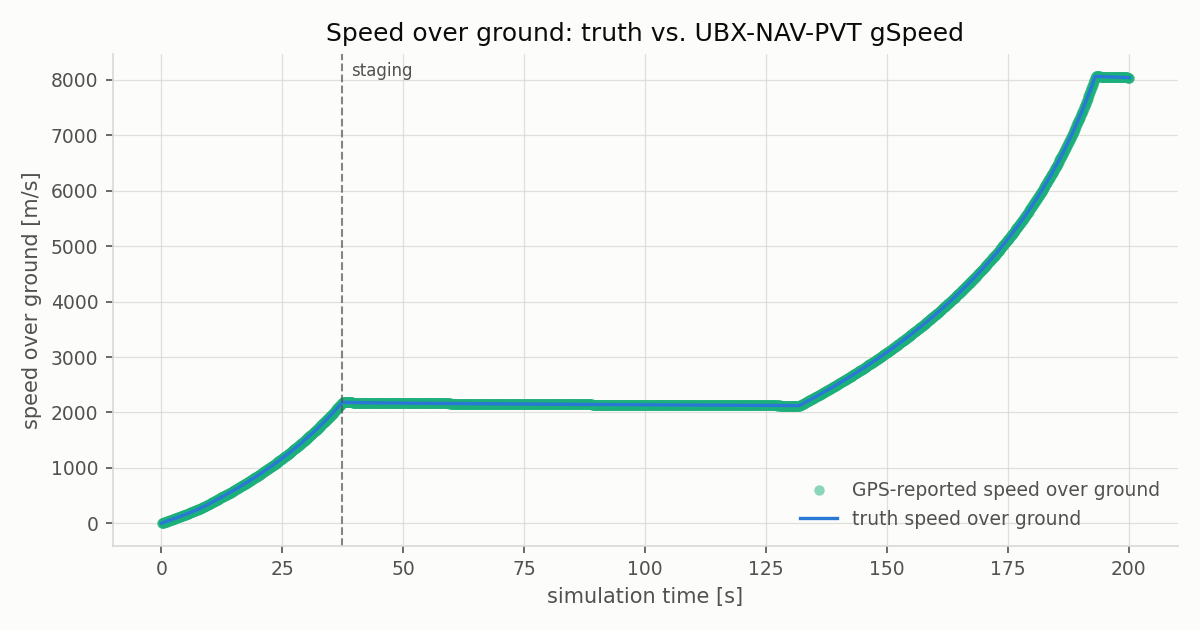
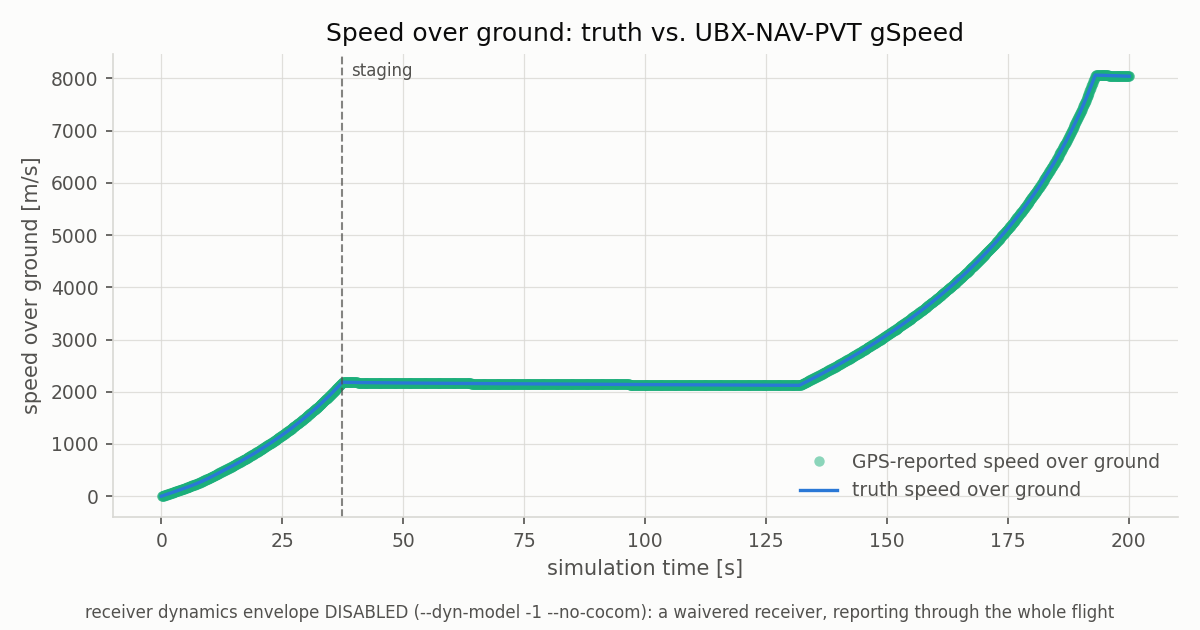
examples/rocket_gps_ecos: make every figure say which run produced it
Three of the six figures can only be drawn from the envelope-unlocked run,
because the default configuration leaves one usable fix in 2001 epochs. Those
three show GPS decoded across the whole flight -- which, detached from the RST
caption that said "envelope-unlocked run", reads as a flat contradiction of the
COCOM result the page spends a section establishing. A reader hit exactly that.

The caption was the wrong place for it. rocket_gps_cosim now writes a .config
sidecar next to the truth log recording what it configured -- platform model,
COCOM switch, ignition time, launch site, step and stop -- and plot_results.py
stamps a one-line summary at the foot of every figure it draws:

    receiver dynamics envelope: u-blox dynModel 8, COCOM limits in force
    receiver dynamics envelope DISABLED (--dyn-model -1 --no-cocom): a
      waivered receiver, reporting through the whole flight

A PNG that escapes its caption now still carries its own provenance, and a run
whose sidecar is missing says so rather than going unlabelled.

Figures and transcripts regenerated from both paced runs; the trajectory still
verifies inside the NASA check-case envelope at all 2001 samples.

diff --git a/examples/rocket_gps_ecos/plot_results.py b/examples/rocket_gps_ecos/plot_results.py
@@ -178,6 +178,48 @@ def legend(ax) -> None:
         text.set_color(INK_2)
 
 
+def read_run_config(truth_path: Path) -> dict[str, str]:
+    """Reads the `<truth stem>.config` sidecar rocket_gps_cosim writes, if present."""
+    path = truth_path.with_suffix(".config")
+    if not path.exists():
+        return {}
+    config: dict[str, str] = {}
+    for line in path.read_text().splitlines():
+        key, _, value = line.partition("=")
+        if key and value:
+            config[key.strip()] = value.strip()
+    return config
+
+
+def config_caption(config: dict[str, str]) -> str:
+    """One line describing the receiver configuration a run used.
+
+    Every figure carries this. Without it the envelope-unlocked comparison run
+    -- which reports a fix at every epoch -- looks like a contradiction of the
+    COCOM result the default configuration produces, and there is nothing in
+    the image to tell the two apart.
+    """
+    if not config:
+        return "run configuration unknown (no .config sidecar beside the truth log)"
+
+    platform = config.get("dynamic_platform", "?")
+    cocom = config.get("cocom_limits_enabled", "?") == "1"
+    if platform == "-1" and not cocom:
+        return ("receiver dynamics envelope DISABLED (--dyn-model -1 --no-cocom): "
+                "a waivered receiver, reporting through the whole flight")
+    limits = []
+    if platform != "-1":
+        limits.append(f"u-blox dynModel {platform}")
+    limits.append("COCOM limits in force" if cocom else "COCOM limits cleared")
+    return "receiver dynamics envelope: " + ", ".join(limits)
+
+
+def stamp(fig, caption: str) -> None:
+    """Puts the run's provenance at the foot of a figure, out of the data's way."""
+    fig.tight_layout(rect=(0.0, 0.045, 1.0, 1.0))
+    fig.text(0.5, 0.012, caption, ha="center", va="bottom", fontsize=8, color=INK_2)
+
+
 def rolling_rms(values: list[float], window: int = 101) -> list[float]:
     """Centred rolling RMS, for reading a noise level off a cloud of samples."""
     out: list[float] = []
@@ -201,7 +243,7 @@ def annotate_event(ax, x: float, label: str) -> None:
                 ha="left", va="top", fontsize=8, color=INK_2)
 
 
-def plot_altitude(truth, fixes, outages, out: Path) -> None:
+def plot_altitude(truth, fixes, outages, out: Path, caption: str) -> None:
     fig, ax = new_figure()
     shade_outages(ax, outages)
     # GPS dots first, truth line on top -- the two overlap almost everywhere,
@@ -230,12 +272,12 @@ def plot_altitude(truth, fixes, outages, out: Path) -> None:
     ax.set_ylabel("altitude above MSL [km]")
     ax.set_title("Two-stage rocket ascent: truth vs. decoded GPS altitude")
     legend(ax)
-    fig.tight_layout()
+    stamp(fig, caption)
     fig.savefig(out / "altitude_vs_time.png", facecolor=SURFACE)
     plt.close(fig)
 
 
-def plot_velocity(truth, fixes, outages, out: Path) -> None:
+def plot_velocity(truth, fixes, outages, out: Path, caption: str) -> None:
     fig, ax = new_figure()
     shade_outages(ax, outages)
     speed = [math.hypot(n, e) for n, e in zip(truth["v_north_m_s"], truth["v_east_m_s"])]
@@ -251,12 +293,12 @@ def plot_velocity(truth, fixes, outages, out: Path) -> None:
     ax.set_ylabel("speed over ground [m/s]")
     ax.set_title("Speed over ground: truth vs. UBX-NAV-PVT gSpeed")
     legend(ax)
-    fig.tight_layout()
+    stamp(fig, caption)
     fig.savefig(out / "velocity_vs_time.png", facecolor=SURFACE)
     plt.close(fig)
 
 
-def plot_gps_availability(truth, outages, out: Path) -> None:
+def plot_gps_availability(truth, outages, out: Path, caption: str) -> None:
     """Shows the truth state against the limits that took the fix away.
 
     Two panels sharing a time axis, because the COCOM cut-off is an AND of
@@ -311,12 +353,12 @@ def plot_gps_availability(truth, outages, out: Path) -> None:
                         xytext=(46, 14), textcoords="offset points", fontsize=8, color=INK_2,
                         arrowprops=dict(arrowstyle="->", color=INK_2, linewidth=0.9))
 
-    fig.tight_layout()
+    stamp(fig, caption)
     fig.savefig(out / "gps_availability.png", facecolor=SURFACE)
     plt.close(fig)
 
 
-def plot_gps_error(truth, fixes, step: float, out: Path) -> None:
+def plot_gps_error(truth, fixes, step: float, out: Path, caption: str) -> None:
     # Truth rows and fixes share the 10 Hz grid (one NAV-PVT per step), so
     # align by rounded time rather than interpolating. The fix emitted at the
     # end of step k carries the truth sampled at the end of step k-1 -- the
@@ -374,12 +416,12 @@ def plot_gps_error(truth, fixes, step: float, out: Path) -> None:
         legend(ax)
     ax_h.set_title("GPS error injected by GpsNoiseModel, recovered end-to-end")
     ax_v.set_xlabel("simulation time [s]")
-    fig.tight_layout()
+    stamp(fig, caption)
     fig.savefig(out / "gps_error.png", facecolor=SURFACE)
     plt.close(fig)
 
 
-def plot_imu_specific_force(truth, imu, out: Path) -> None:
+def plot_imu_specific_force(truth, imu, out: Path, caption: str) -> None:
     # The truth CSV's f_x/f_y/f_z columns are the imu:: input variables --
     # exactly the zero-order-held value the IMU FMU sampled (already one
     # communication step behind rocket truth, like every connection), so no
@@ -400,12 +442,12 @@ def plot_imu_specific_force(truth, imu, out: Path) -> None:
     ax.set_ylabel("body-X specific force [m/s²]")
     ax.set_title("Boost-phase acceleration: truth vs. decoded IMU counts")
     legend(ax)
-    fig.tight_layout()
+    stamp(fig, caption)
     fig.savefig(out / "imu_specific_force.png", facecolor=SURFACE)
     plt.close(fig)
 
 
-def plot_imu_body_rates(truth, imu, out: Path) -> None:
+def plot_imu_body_rates(truth, imu, out: Path, caption: str) -> None:
     fig, ax = new_figure()
     for axis, color, marker_alpha in (("x", TRUTH, 0.2), ("y", GPS, 0.2), ("z", INK_2, 0.2)):
         ax.plot(imu["sim_time_s"], imu[f"gyro_{axis}_rad_s"],
@@ -418,7 +460,7 @@ def plot_imu_body_rates(truth, imu, out: Path) -> None:
     ax.set_ylabel("body angular rate [rad/s]")
     ax.set_title("Body rates: truth p/q/r vs. decoded gyroscope samples")
     legend(ax)
-    fig.tight_layout()
+    stamp(fig, caption)
     fig.savefig(out / "imu_body_rates.png", facecolor=SURFACE)
     plt.close(fig)
 
@@ -434,7 +476,9 @@ def main() -> None:
     truth = read_truth(args.truth)
     fixes = read_fixes(args.fixes)
     outages = read_outages(args.fixes)
+    caption = config_caption(read_run_config(args.truth))
     args.out.mkdir(parents=True, exist_ok=True)
+    print(caption)
 
     times = truth["time"]
     step = min(b - a for a, b in zip(times, times[1:])) if len(times) > 1 else 0.1
@@ -447,16 +491,16 @@ def main() -> None:
               f"(receiver dynamics envelope: {windows}); plotting the {valid} valid ones")
 
     figures = 0
-    plot_gps_availability(truth, outages, args.out)
+    plot_gps_availability(truth, outages, args.out, caption)
     figures += 1
 
     # Two fixes is the least that says anything: one point draws no track and
     # the error figure needs a pair to align against truth. A launch-vehicle
     # envelope really can leave fewer than that, so skip rather than crash.
     if valid >= 2:
-        plot_altitude(truth, fixes, outages, args.out)
-        plot_velocity(truth, fixes, outages, args.out)
-        plot_gps_error(truth, fixes, step, args.out)
+        plot_altitude(truth, fixes, outages, args.out, caption)
+        plot_velocity(truth, fixes, outages, args.out, caption)
+        plot_gps_error(truth, fixes, step, args.out, caption)
         figures += 3
     else:
         print(f"only {valid} epoch(s) carried a fix -- skipping the three fix-dependent figures. "
@@ -464,8 +508,8 @@ def main() -> None:
 
     if args.imu.exists():
         imu = read_fixes(args.imu)  # same plain-CSV shape as the fix log
-        plot_imu_specific_force(truth, imu, args.out)
-        plot_imu_body_rates(truth, imu, args.out)
+        plot_imu_specific_force(truth, imu, args.out, caption)
+        plot_imu_body_rates(truth, imu, args.out, caption)
         figures += 2
     print(f"wrote {figures} figures to {args.out}/")
 

diff --git a/examples/rocket_gps_ecos/cosim_host_main.cpp b/examples/rocket_gps_ecos/cosim_host_main.cpp
@@ -326,6 +326,42 @@ bool parse_args(int argc, char** argv, Options& options)
   return false;
 }
 
+/// @brief Records the run's configuration next to its truth log.
+///
+/// A figure that does not say which configuration produced it will eventually
+/// be read as if it came from the other one -- and with this example the two
+/// differ on whether the GPS reports anything at all, so the misreading is
+/// guaranteed rather than merely possible. plot_results.py picks this file up
+/// and stamps the receiver settings onto every figure it draws, so a stray PNG
+/// still carries its own provenance.
+///
+/// Written as `<truth log stem>.config` beside the CSV, in trivial key=value
+/// lines: it is read by one script and by humans, and nothing here justifies a
+/// parser.
+void write_run_config(const std::filesystem::path& csv_path, const Options& options)
+{
+  std::filesystem::path config_path = csv_path;
+  config_path.replace_extension(".config");
+  std::ofstream out(config_path);
+  if (!out)
+  {
+    // Losing the provenance stamp must not lose the run.
+    std::cerr << "warning: cannot write " << config_path.string() << "; figures will be unlabelled\n";
+    return;
+  }
+  out << "dynamic_platform=" << options.dynamic_platform << "\n"
+      << "cocom_limits_enabled=" << (options.cocom_limits ? 1 : 0) << "\n"
+      << "reacquisition_time_s=" << options.reacquisition_time_s << "\n"
+      << "stg2_ignition_s=" << options.stg2_ignition_s << "\n"
+      << "lat0_deg=" << options.lat0_deg << "\n"
+      << "lon0_deg=" << options.lon0_deg << "\n"
+      << "alt0_m=" << options.alt0_m << "\n"
+      << "step_s=" << options.step_s << "\n"
+      << "stop_s=" << options.stop_s << "\n"
+      << "imu_rate_hz=" << options.imu_rate_hz << "\n"
+      << "realtime_factor=" << options.realtime_factor << "\n";
+}
+
 /// @brief Truth log, written by the host rather than by Ecos' ``csv_writer``.
 ///
 /// ``csv_writer`` formats every real with a default-configured ostringstream:
@@ -536,6 +572,7 @@ int main(int argc, char** argv)
                             "imu::f_y_mps2",
                             "imu::f_z_mps2" },
                           { "rocket::out.staged" });
+    write_run_config(options.csv_path, options);
 
     auto* altitude = sim->get_real_property("rocket::out.alt_m");
     auto* mach = sim->get_real_property("rocket::out.mach");

diff --git a/doc/rocket_gps_ecos_cosim.rst b/doc/rocket_gps_ecos_cosim.rst
@@ -375,21 +375,21 @@ from raw bytes:
    [fc] listening for UBX-NAV-PVT on UDP port 5762 (GpsDriver, protocol=UBX)
    [fc] waiting up to 120 s for the IMU on SPI bus 'hemerion_imu_spi'
    [fc] IMU identified on SPI (WHO_AM_I matched), FIFO enabled
-   [fc] fix     1  t=    0.1 s  lat=  0.0000069  lon=  -0.0000058  alt=      2.1 m  vel=    0.1 m/s  crs=149.3 deg  sats=11
+   [fc] fix     1  t=    0.1 s  lat=  0.0000125  lon=  -0.0000173  alt=     -0.9 m  vel=    0.1 m/s  crs=150.3 deg  sats=11
+   [fc] imu      1  t=    0.1 s  f=[   54.27    0.01   -0.05] m/s2  w=[ -0.0021  0.0000 -0.0021] rad/s
    [fc] fix     2  t=    0.2 s  no fix -- receiver outside its dynamics envelope
-   [fc] imu      1  t=    0.1 s  f=[   54.28    0.02    0.02] m/s2  w=[ -0.0011  0.0000  0.0000] rad/s
-   [fc] imu   3000  t=   30.1 s  f=[   97.97    0.06   -0.06] m/s2  w=[  0.0032 -0.0181  0.0000] rad/s
-   [fc] imu   4000  t=   40.1 s  f=[   -0.96    0.02   -0.15] m/s2  w=[  0.0032  0.0000  0.0043] rad/s
-   [fc] imu  10000  t=  100.1 s  f=[   -0.06    0.10    0.05] m/s2  w=[  0.0032 -0.0053  0.0032] rad/s
-   [fc] imu  14000  t=  140.1 s  f=[   56.57   -0.05    0.04] m/s2  w=[  0.0032 -0.0021  0.0000] rad/s
-   [fc] imu  19000  t=  190.1 s  f=[  217.83    0.06   -0.05] m/s2  w=[  0.0011 -0.0021  0.0032] rad/s
-   [fc] imu  20000  t=  200.1 s  f=[    0.10   -0.06    0.05] m/s2  w=[  0.0032 -0.0043  0.0011] rad/s
+   [fc] imu   3000  t=   30.1 s  f=[   97.89    0.00   -0.17] m/s2  w=[ -0.0021 -0.0202 -0.0032] rad/s
+   [fc] imu   4000  t=   40.1 s  f=[   -0.92   -0.04   -0.18] m/s2  w=[  0.0000  0.0000 -0.0032] rad/s
+   [fc] imu  10000  t=  100.1 s  f=[    0.01    0.01    0.10] m/s2  w=[  0.0000 -0.0043  0.0011] rad/s
+   [fc] imu  14000  t=  140.1 s  f=[   56.55   -0.10    0.07] m/s2  w=[  0.0032 -0.0021 -0.0021] rad/s
+   [fc] imu  19000  t=  190.1 s  f=[  217.88    0.02    0.04] m/s2  w=[  0.0000 -0.0032  0.0032] rad/s
+   [fc] imu  20000  t=  200.1 s  f=[    0.02    0.04   -0.04] m/s2  w=[  0.0021 -0.0032 -0.0043] rad/s
    [fc] IMU powered down (FMU terminated) -- co-simulation finished
    [fc] summary: 2001 NAV-PVT epochs decoded (0 checksum errors), 1 carried a fix, 2000 did not
    [fc] no-fix window: t=0.2 s to t=200.1 s (receiver dynamics envelope: platform model + COCOM limits)
-   [fc] 20000 IMU samples decoded over 12808 SPI transfers (0 checksum errors, 0 FIFO overflows, 0 failed transfers)
-   [fc] max altitude 2.086 m, max ground speed 0.073 m/s (over 1 fix carrying a solution)
-   [fc] max |specific force| 264.62 m/s2, max |body rate| 0.0566044 rad/s
+   [fc] 20000 IMU samples decoded over 12355 SPI transfers (0 checksum errors, 0 FIFO overflows, 0 failed transfers)
+   [fc] max altitude 0 m, max ground speed 0.084 m/s (over 1 fix carrying a solution)
+   [fc] max |specific force| 264.706 m/s2, max |body rate| 0.0564441 rad/s
    [fc] fixes written to results/gps_fixes.csv, IMU samples to results/imu_samples.csv
 
 Read the GPS line again: **one fix, out of 2001 navigation epochs.** The
@@ -404,7 +404,7 @@ ceiling holds it dark for the rest of the flight. Flight software that assumes
 GNSS through boost has just been shown otherwise.
 
 The IMU line is the other half: **20000 of 20010 samples decoded, zero
-checksum errors, zero FIFO overflows, zero failed transfers**, across 12808
+checksum errors, zero FIFO overflows, zero failed transfers**, across 12355
 chip-select-framed SPI transfers. The ten missing samples are the ones the FMU
 buffered before the flight computer probed — ``probe()`` writes ``FIFO_RESET``,
 exactly as a driver clearing whatever accumulated before it took over. Every
@@ -493,6 +493,14 @@ the flight computer's fix and IMU-sample logs — into the figures below:
 .. code-block:: console
 
    $ python plot_results.py       # reads results/, writes plots/
+
+Every figure is stamped with the receiver configuration that produced it.
+That is not decoration: three of the six can only be drawn from the
+envelope-unlocked run, where the GPS reports at every epoch, and detached from
+its caption such a figure reads as a flat contradiction of the COCOM result
+below it. ``rocket_gps_cosim`` writes a ``.config`` sidecar next to the truth
+log and ``plot_results.py`` puts it at the foot of each plot, so a stray PNG
+still says which of the two runs it came from.
 
 .. figure:: _static/rocket_gps_ecos/gps_availability.png
    :width: 100%
